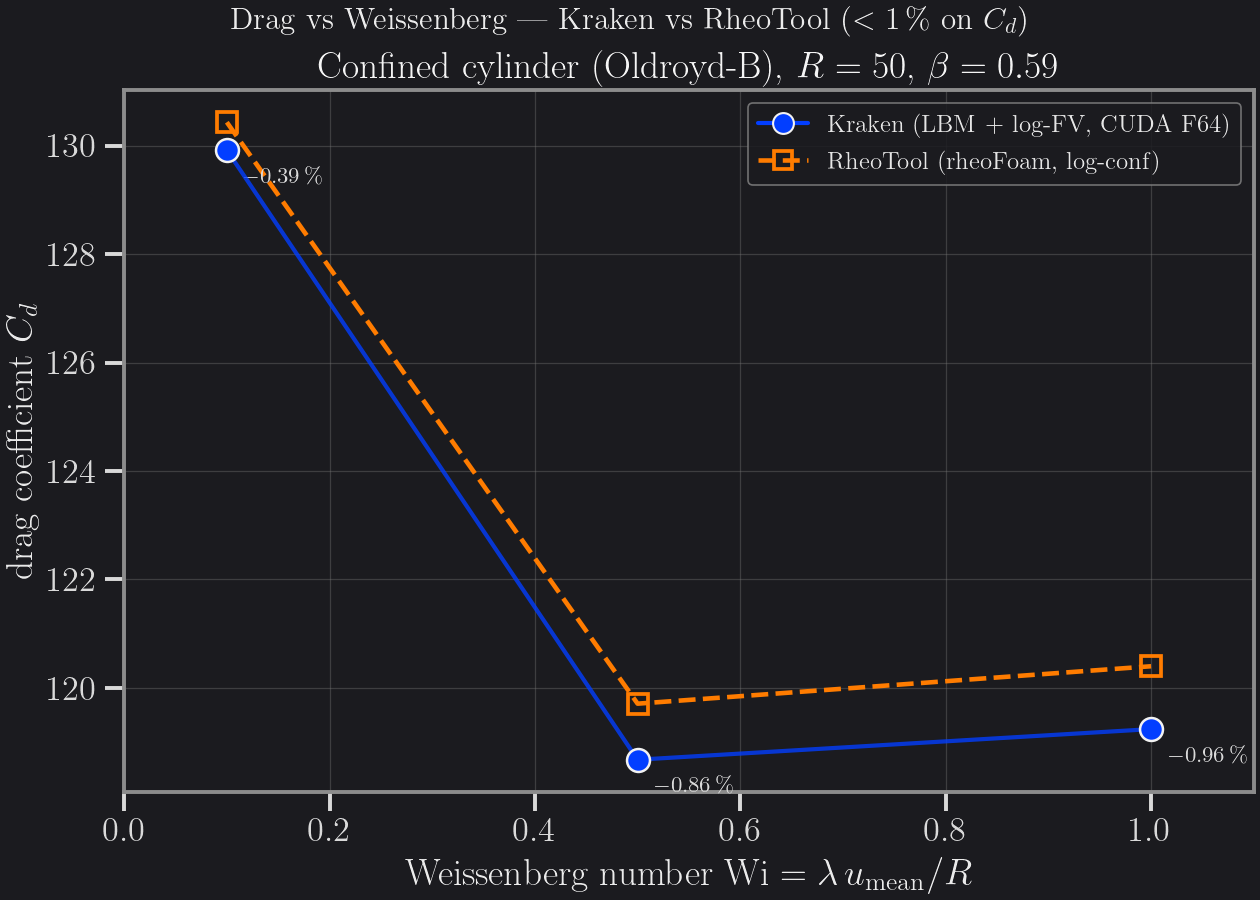
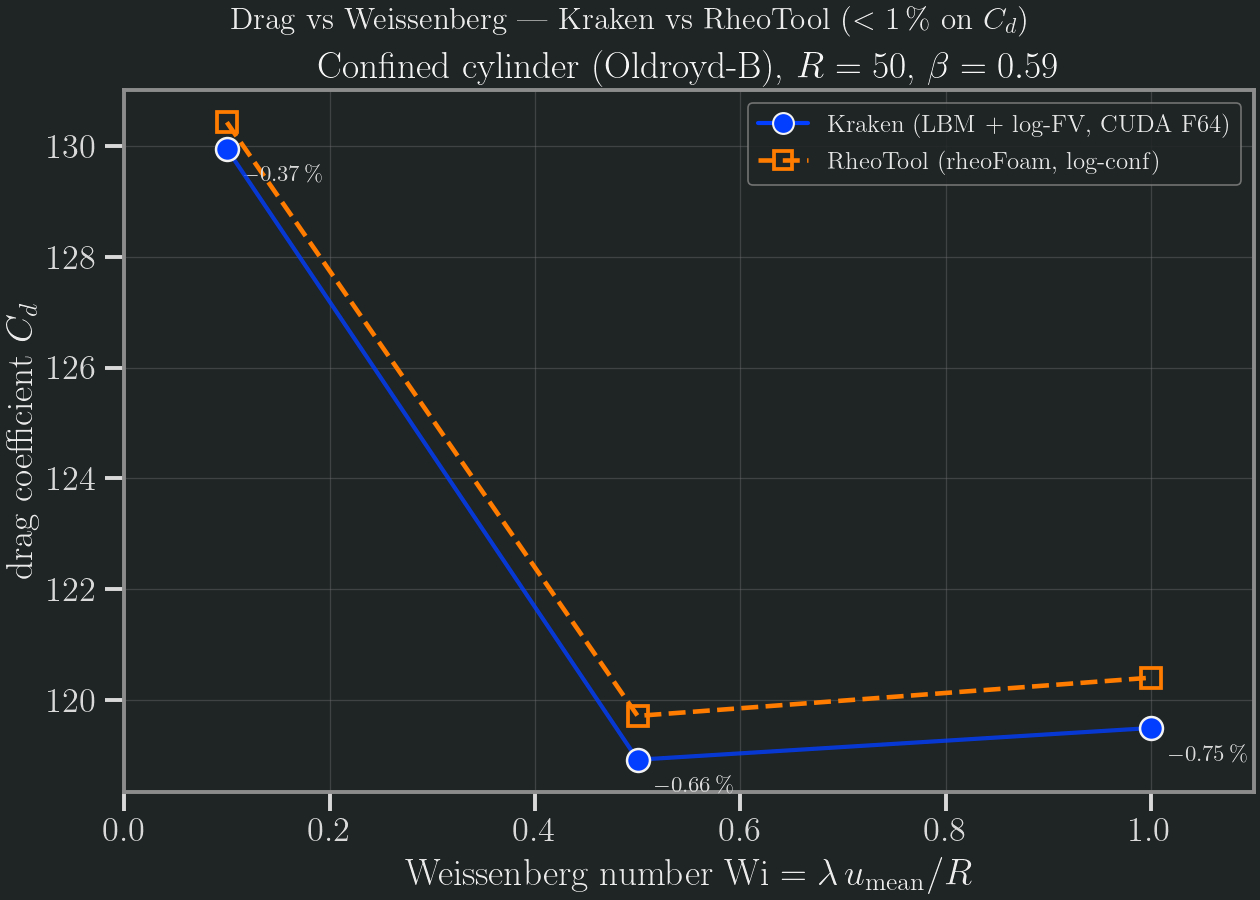
docs: regenerate the VE cylinder figure from the post-fix drag values

diff --git a/benchmarks/results/rheotool_compare/viscoelastic/README.md b/benchmarks/results/rheotool_compare/viscoelastic/README.md
@@ -37,9 +37,8 @@ literature). Diffusive scaling: fixed lattice viscosity `ν_total = 0.15`, `τ =
   `run_simulation("cylinder_oldroyd_b.krk")`.
 - `comparison.png` — Cd vs Wi: Kraken filled markers + connecting line, RheoTool dashed
   reference line + open squares, per-point relative error annotated. Dark Documenter
-  theme. Also copied to `docs/src/users/benchmarks/viscoelastic-cylinder.png`. Not
-  regenerated since the 2026-10-14 re-measurement: it still plots the pre-fix Kraken
-  values.
+  theme. Also copied to `docs/src/users/benchmarks/viscoelastic-cylinder.png`.
+  Regenerated on 2026-10-19 from the post-fix `kraken_cd_vs_wi.csv`.
 - `plot.py` — **self-contained reproducer**: reads the two `*_cd_vs_wi.csv` files in this
   directory and regenerates `comparison.png` (csv + matplotlib + seaborn; LaTeX if a
   system `latex` is present, else mathtext — no external paths). Run
@@ -96,8 +95,8 @@ settings of job 22199679 (Aqua A100, CUDA Float64, 300 000 steps):
 
 At `β = 0.59` the fix moves `Cd` by +0.03 % to +0.23 % (`Wi = 0.1` to `1`,
 `R = 10` to `50`). `kraken_cd_vs_wi.csv` and `error_norms.csv` hold the post-fix
-values. `comparison.png` and `m8_refs/*.csv` are pre-fix; the full post-fix CSV rows are
-on Aqua. Post-fix values for the files in `m8_refs/`:
+values, and `comparison.png` is regenerated from them. `m8_refs/*.csv` are kept
+pre-fix as the dated M8 record. Post-fix values for the files in `m8_refs/`:
 
 - `β = 0.30`, `R = 50`: `Cd = 108.46` at `Wi = 0.5` (RheoTool 109.92, −1.33 %) and
   108.61 at `Wi = 1` (RheoTool 107.28, +1.24 %). The RheoTool `Wi = 1` run is not steady

diff --git a/CHANGELOG.md b/CHANGELOG.md
@@ -25,8 +25,9 @@ Format follows [Keep a Changelog](https://keepachangelog.com/).
   `viscoelastic-cylinder` (benchmark and tutorial), `validation-matrix`,
   `ad-shape-sensitivity-viscoelastic`, `docs/agent/ad-ve-implication.md`, and the
   `benchmarks/results/rheotool_compare/viscoelastic/` README, `kraken_cd_vs_wi.csv` and
-  `error_norms.csv`. `comparison.png` (and its copy `viscoelastic-cylinder.png`) and
-  `m8_refs/*.csv` still hold the pre-fix values.
+  `error_norms.csv`, and `comparison.png` (and its copy `viscoelastic-cylinder.png`),
+  regenerated from the post-fix `kraken_cd_vs_wi.csv`. `m8_refs/*.csv` keep the
+  pre-fix values as the dated record of the M8 study.
 
 ### Fixed
 - **TRT Guo forcing injects exactly `F` per step** (#67). The TRT collision

diff --git a/docs/src/users/benchmarks/viscoelastic-cylinder.md b/docs/src/users/benchmarks/viscoelastic-cylinder.md
@@ -7,9 +7,8 @@ log-conformation) to **better than 1 %** on the integrated drag coefficient `Cd`
 the validated range `Wi ≤ 1` at `β = 0.59` — `−0.75 %` at the most elastic point `Wi = 1`.
 
 Kraken (filled markers + line), RheoTool (dashed + open squares); the elastic minimum
-near `Wi ≈ 0.5` and the upturn toward `Wi = 1` are visible in both codes. The figure has
-not been regenerated since the 2026-10-14 re-measurement and still plots the pre-fix
-Kraken values (see the note below).
+near `Wi ≈ 0.5` and the upturn toward `Wi = 1` are visible in both codes. The figure plots the
+post-fix values (see the note below).
 
 ![Viscoelastic cylinder Cd vs Wi](viscoelastic-cylinder.png)
 
